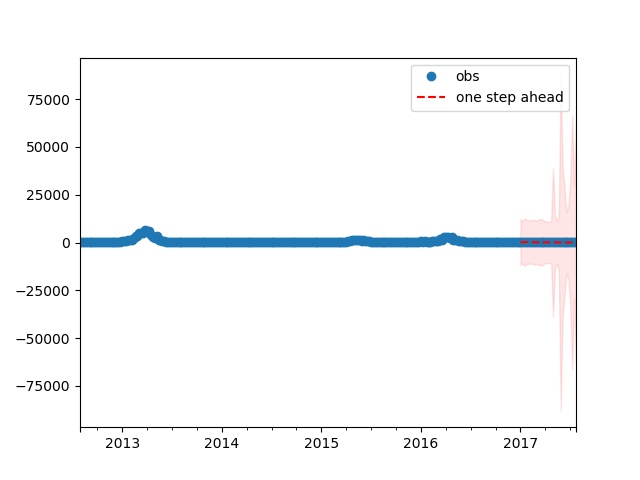
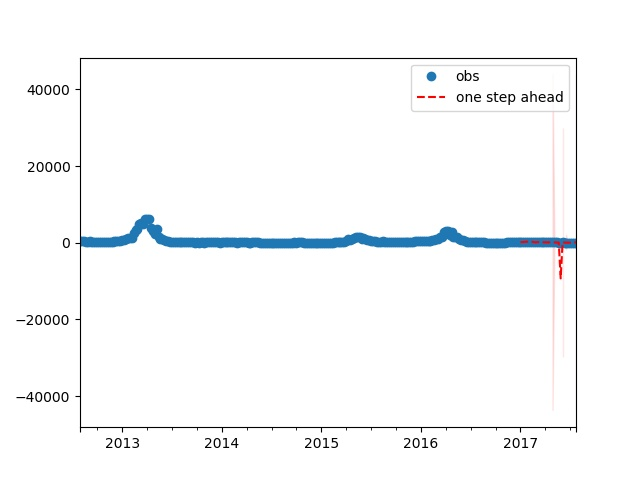
changed lstm topology

diff --git a/infodenguepredict/models/deeplearning/lstm.py b/infodenguepredict/models/deeplearning/lstm.py
@@ -13,7 +13,7 @@ from time import time
 from infodenguepredict.data.infodengue import get_alerta_table, get_temperature_data, get_tweet_data, build_multicity_dataset
 from infodenguepredict.models.deeplearning.preprocessing import split_data, normalize_data
 
-HIDDEN = 256
+HIDDEN = 64
 TIME_WINDOW = 12
 BATCH_SIZE = 1
 
@@ -32,16 +32,18 @@ def build_model(hidden, features, look_back=10, batch_size=1):
     """
     model = Sequential()
 
-    # model.add(LSTM(hidden, input_shape=(look_back, features), stateful=True,
-    #                batch_input_shape=(batch_size, look_back, features), return_sequences=True))
-    # model.add(Dropout(0.2))
+    model.add(LSTM(hidden, input_shape=(look_back, features), stateful=True,
+                    batch_input_shape=(batch_size, look_back, features), return_sequences=True))
+    model.add(LSTM(hidden, input_shape=(look_back, features), stateful=True,
+                   batch_input_shape=(batch_size, look_back, features), return_sequences=True))
+    model.add(Dropout(0.2))
 
     model.add(LSTM(hidden, input_shape=(look_back, features), stateful=True,
                    batch_input_shape=(batch_size, look_back, features)))
     model.add(Dropout(0.2))
 
     model.add(Dense(prediction_window))  # five time-step ahead prediction
-    model.add(Activation("softplus"))
+    model.add(Activation("relu"))
 
     start = time()
     model.compile(loss="mse", optimizer="rmsprop")
@@ -137,12 +139,13 @@ if __name__ == "__main__":
     print(X_train.shape, Y_train.shape, X_test.shape, Y_test.shape)
 
     model = build_model(HIDDEN, X_train.shape[2], TIME_WINDOW, BATCH_SIZE)
-    history = train(model, X_train, Y_train, batch_size=1, epochs=100)
+    history = train(model, X_train, Y_train, batch_size=1, epochs=10)
     model.save('lstm_model')
     ## plotting results
     print(model.summary())
     loss_and_metrics(model, X_test, Y_test)
     plot_training_history(history)
     plot_predicted_vs_data(model, X_train, Y_train, label='In Sample', pred_window=prediction_window)
+
     plot_predicted_vs_data(model, X_test, Y_test, label='Out of Sample', pred_window=prediction_window)
     P.show()

diff --git a/infodenguepredict/models/sarimax.py b/infodenguepredict/models/sarimax.py
@@ -68,7 +68,7 @@ if __name__ == "__main__":
     plt.savefig('sarimax_prediction.jpg')
 
     ## Forecast
-    forecast = fit.get_prediction(start='2017-03-05', end='2017-06-21', dynamic=False)
+    forecast = fit.get_prediction(start='2017-05-21', end='2017-09-21', dynamic=False)
     forecast_ci = forecast.conf_int()
     forecast.predicted_mean.plot(style='b--', label='one step ahead')
     plt.fill_between(forecast_ci.index, forecast_ci.ix[:, 0], forecast_ci.ix[:, 1], color='b', alpha=0.1)
